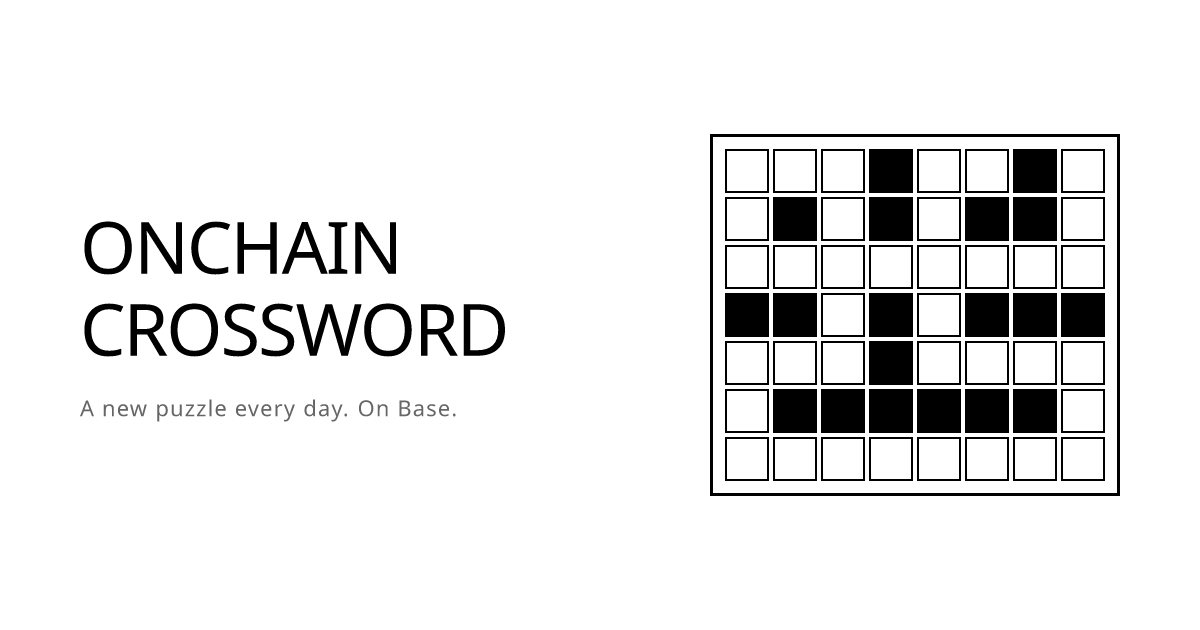
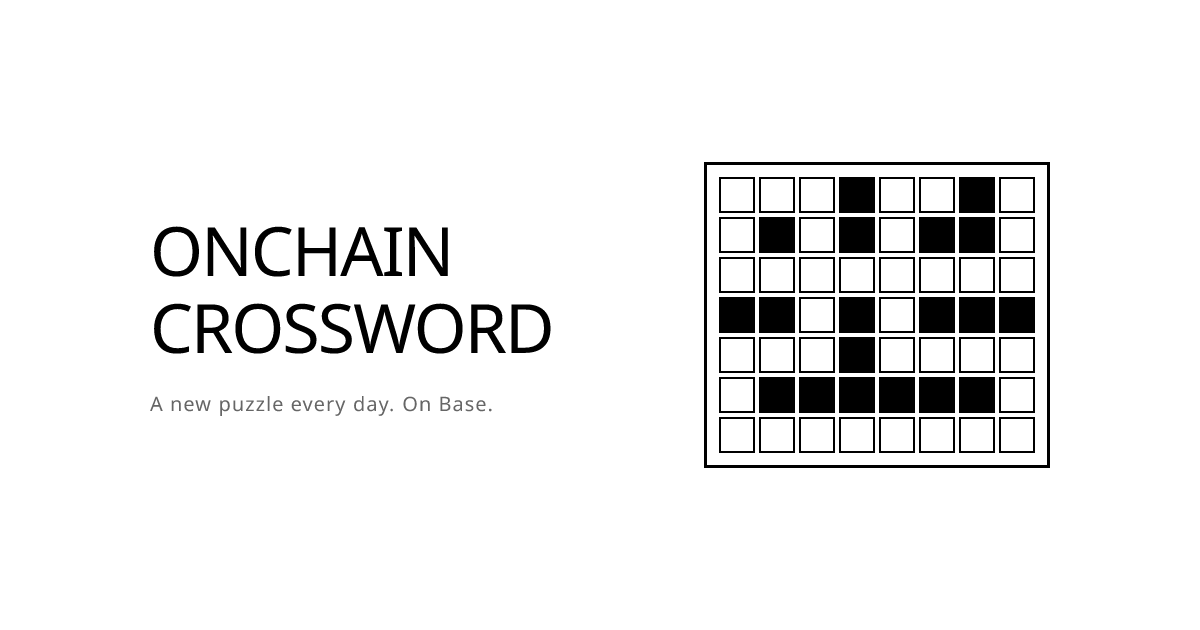
fix: increase og-image padding to prevent Farcaster embed clipping

diff --git a/src/app/og-image.png/route.tsx b/src/app/og-image.png/route.tsx
@@ -2,20 +2,33 @@ import { ImageResponse } from 'next/og';
 
 export const runtime = 'edge';
 
-const GRID = [
-  [1, 1, 1, 0, 1, 1, 0, 1],
-  [1, 0, 1, 0, 1, 0, 0, 1],
-  [1, 1, 1, 1, 1, 1, 1, 1],
-  [0, 0, 1, 0, 1, 0, 0, 0],
-  [1, 1, 1, 0, 1, 1, 1, 1],
-  [1, 0, 0, 0, 0, 0, 0, 1],
-  [1, 1, 1, 1, 1, 1, 1, 1],
-];
-
 const W = 1200;
 const H = 630;
-const CELL = 44;
+const CELL = 36;
 const GAP = 4;
+
+// 7x8 crossword pattern (1=white, 0=black)
+const R0 = [1,1,1,0,1,1,0,1];
+const R1 = [1,0,1,0,1,0,0,1];
+const R2 = [1,1,1,1,1,1,1,1];
+const R3 = [0,0,1,0,1,0,0,0];
+const R4 = [1,1,1,0,1,1,1,1];
+const R5 = [1,0,0,0,0,0,0,1];
+const R6 = [1,1,1,1,1,1,1,1];
+
+const c = (v: number) => ({
+  width: CELL, height: CELL,
+  background: v ? '#fff' : '#000',
+  border: v ? '2px solid #000' : 'none',
+} as const);
+
+const row = (cells: number[]) => (
+  <div style={{ display: 'flex', gap: GAP }}>
+    <div style={c(cells[0])} /><div style={c(cells[1])} /><div style={c(cells[2])} />
+    <div style={c(cells[3])} /><div style={c(cells[4])} /><div style={c(cells[5])} />
+    <div style={c(cells[6])} /><div style={c(cells[7])} />
+  </div>
+);
 
 export async function GET() {
   return new ImageResponse(
@@ -28,72 +41,28 @@ export async function GET() {
           display: 'flex',
           alignItems: 'center',
           justifyContent: 'space-between',
-          paddingLeft: 80,
-          paddingRight: 80,
+          paddingLeft: 150,
+          paddingRight: 150,
         }}
       >
         {/* Left: text */}
-        <div style={{ display: 'flex', flexDirection: 'column', gap: '0px' }}>
-          <div
-            style={{
-              fontSize: 72,
-              fontWeight: 900,
-              color: '#000',
-              letterSpacing: '-2px',
-              lineHeight: 1,
-            }}
-          >
+        <div style={{ display: 'flex', flexDirection: 'column' }}>
+          <div style={{ fontSize: 68, fontWeight: 900, color: '#000', letterSpacing: '-2px', lineHeight: 1 }}>
             ONCHAIN
           </div>
-          <div
-            style={{
-              fontSize: 72,
-              fontWeight: 900,
-              color: '#000',
-              letterSpacing: '-2px',
-              lineHeight: 1,
-            }}
-          >
+          <div style={{ fontSize: 68, fontWeight: 900, color: '#000', letterSpacing: '-2px', lineHeight: 1 }}>
             CROSSWORD
           </div>
-          <div
-            style={{
-              marginTop: 24,
-              fontSize: 22,
-              fontWeight: 500,
-              color: '#666',
-              letterSpacing: '0.05em',
-            }}
-          >
-            A new puzzle every day. On Base.
+          <div style={{ display: 'flex', marginTop: 24 }}>
+            <div style={{ fontSize: 20, fontWeight: 500, color: '#666', letterSpacing: '0.05em' }}>
+              A new puzzle every day. On Base.
+            </div>
           </div>
         </div>
 
         {/* Right: crossword grid */}
-        <div
-          style={{
-            display: 'flex',
-            flexDirection: 'column',
-            gap: `${GAP}px`,
-            border: '3px solid #000',
-            padding: '12px',
-          }}
-        >
-          {GRID.map((row, r) => (
-            <div key={r} style={{ display: 'flex', gap: `${GAP}px` }}>
-              {row.map((cell, c) => (
-                <div
-                  key={c}
-                  style={{
-                    width: CELL,
-                    height: CELL,
-                    background: cell ? '#fff' : '#000',
-                    border: cell ? '2px solid #000' : 'none',
-                  }}
-                />
-              ))}
-            </div>
-          ))}
+        <div style={{ display: 'flex', flexDirection: 'column', gap: GAP, border: '3px solid #000', padding: 12 }}>
+          {row(R0)}{row(R1)}{row(R2)}{row(R3)}{row(R4)}{row(R5)}{row(R6)}
         </div>
       </div>
     ),
